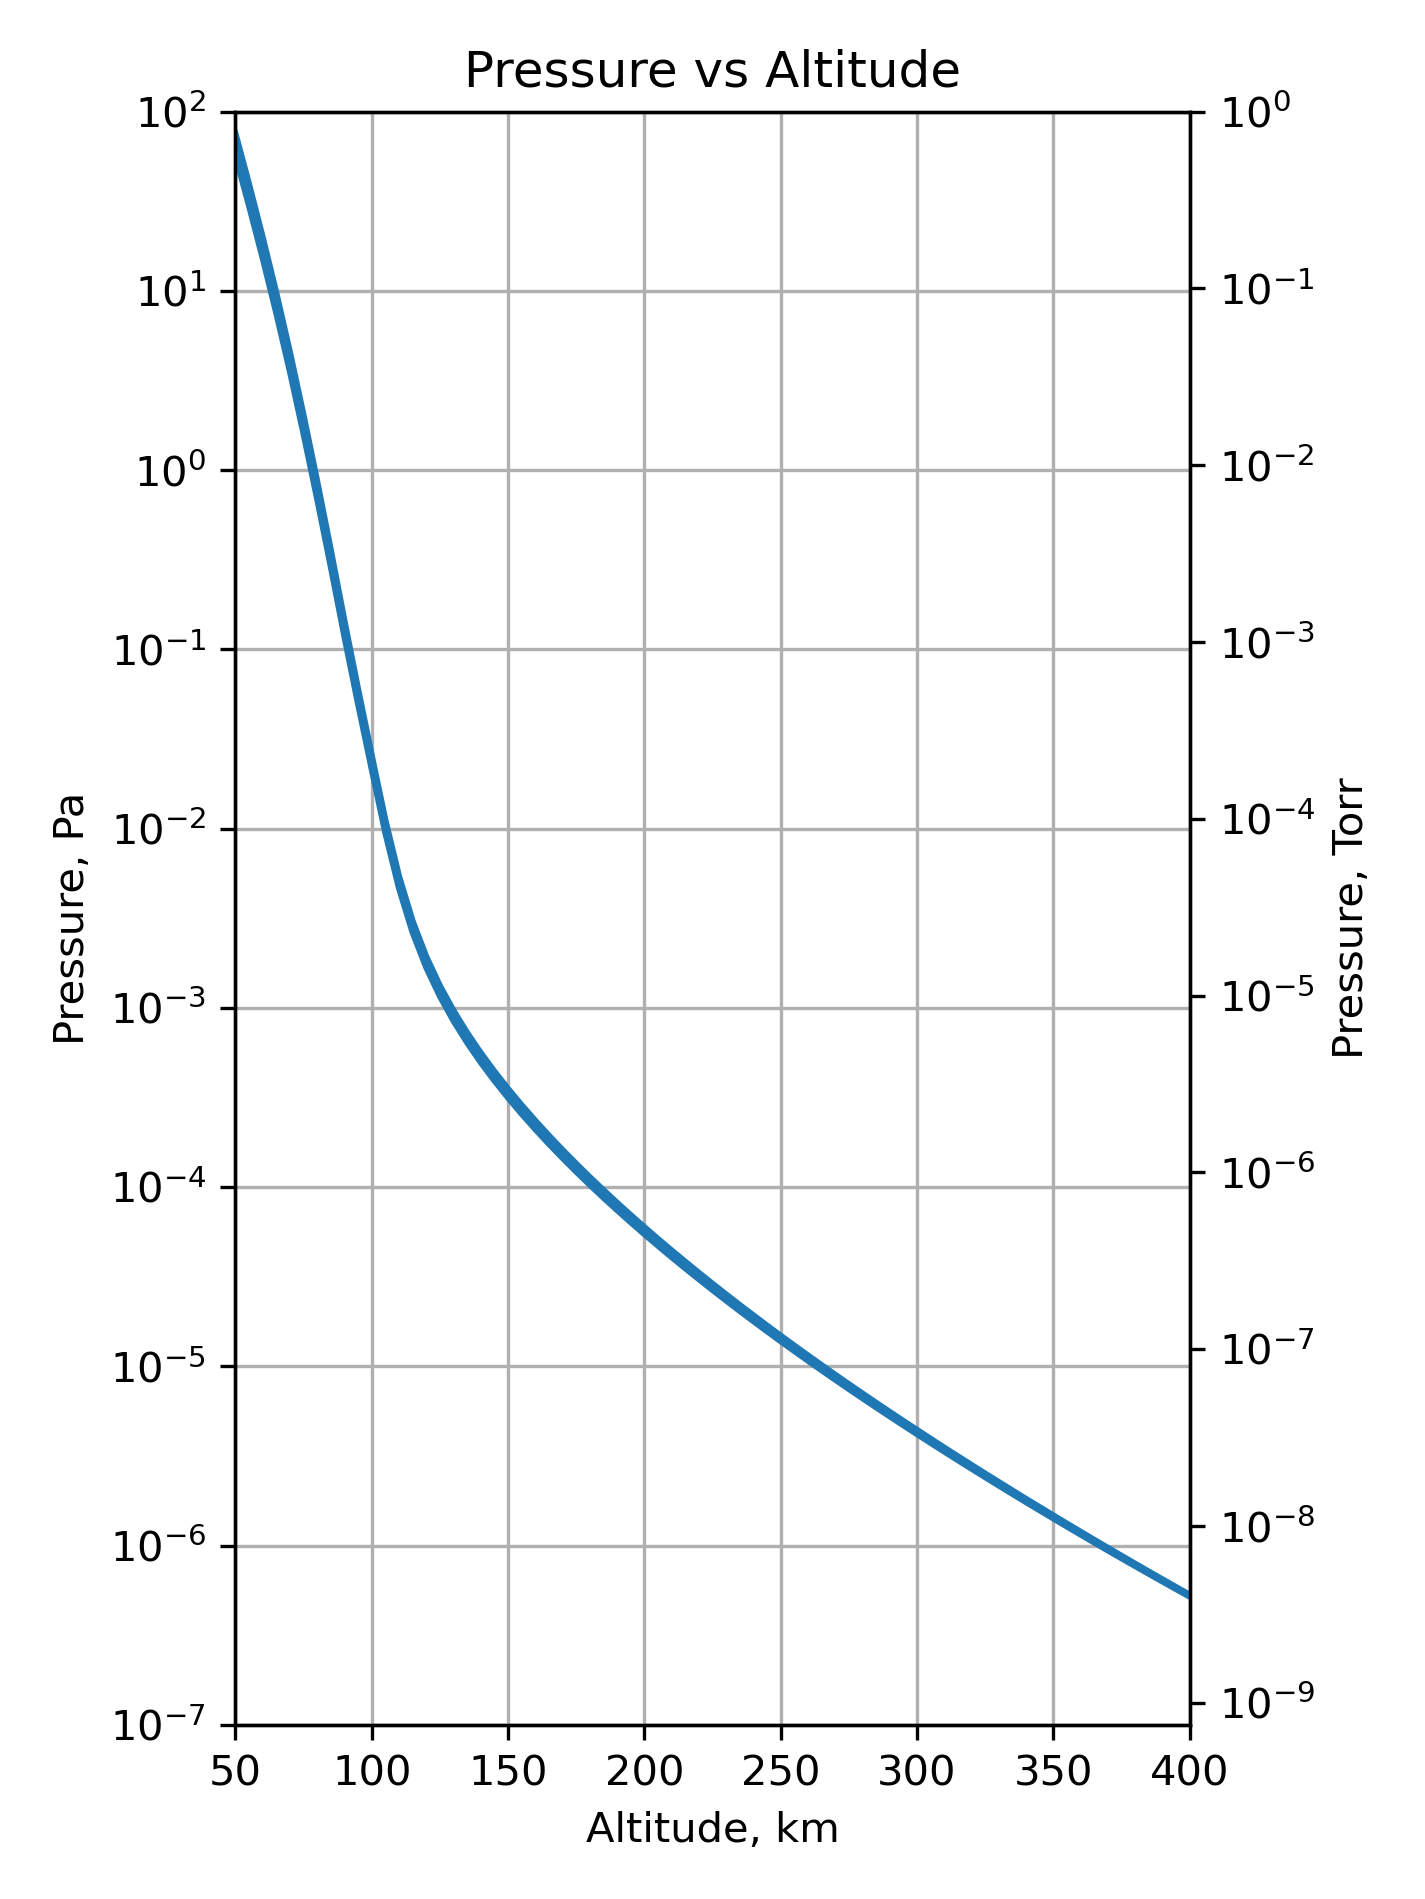
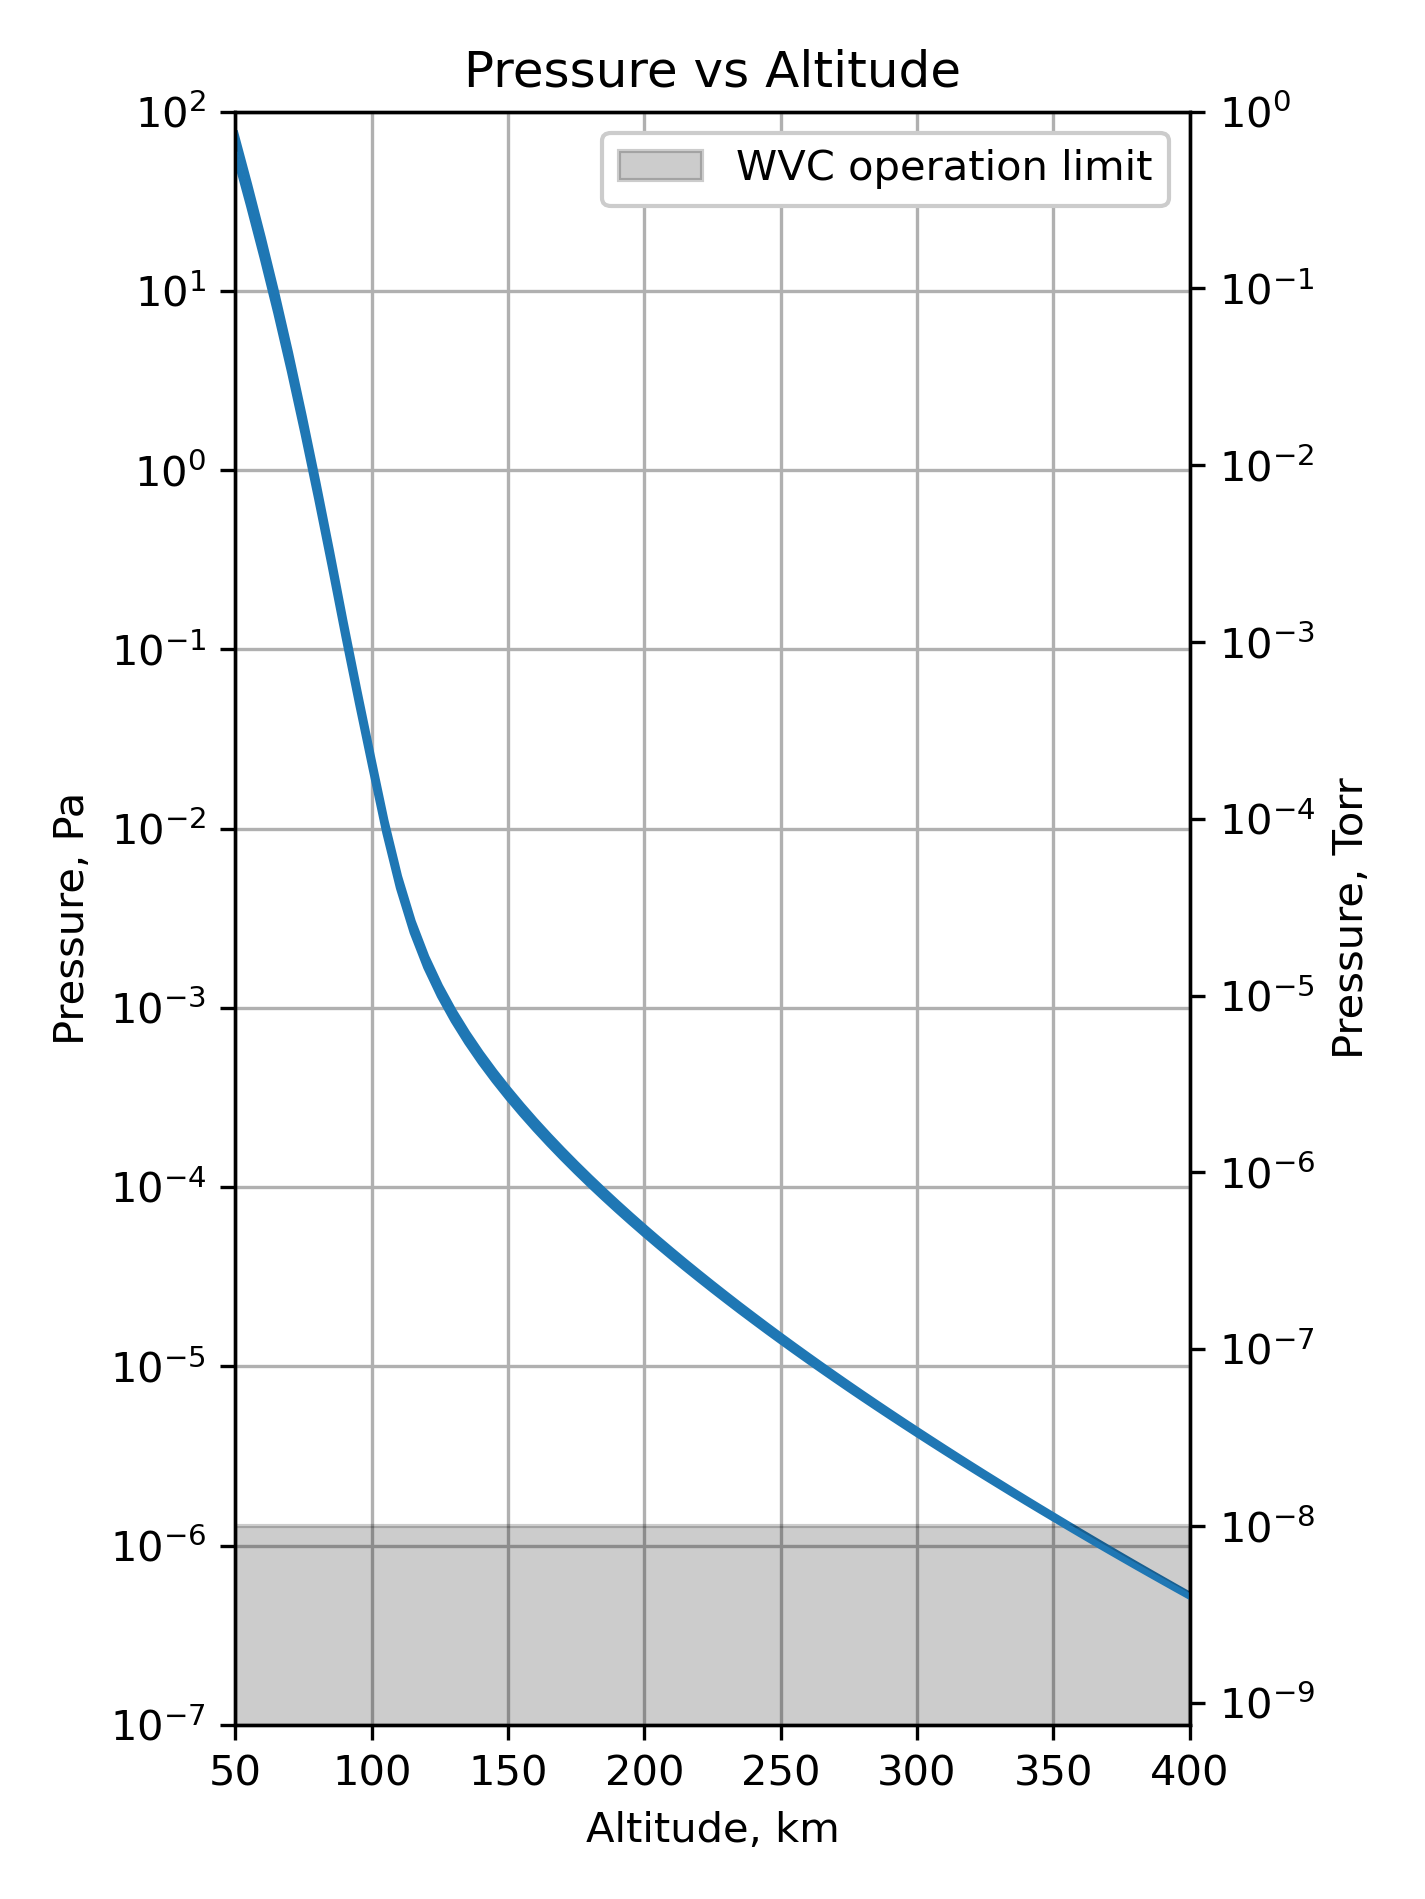
Update

Changed region(s): [[0.1544, 0.7767, 0.8337, 0.9321], [0.4323, 0.0621, 0.8337, 0.1243]]

diff --git a/Atmospheric_parameters_calculation.py b/Atmospheric_parameters_calculation.py
@@ -83,6 +83,7 @@ ax.semilogy(H,n_O,'--',label='O')
 ax.semilogy(H,n_Ar,'--',label='Ar')
 ax.semilogy(H,n_He,'--',label='He')
 ax.semilogy(H,n_H,'--',label='H')
+ax.axhspan(1e14,1e15,color='k',alpha=0.2,label='WVC operation limit')
 ax.set_xlim(50,400)
 ax.set_xlabel('Altitude, km')
 ax.set_ylim(1e14,1e23)
@@ -104,13 +105,28 @@ ax.set_yticks(np.logspace(-7,2,10))
 ax.set_ylabel('Pressure, Pa')
 ax2 = ax.twinx()
 ax2.semilogy(H,P*760/101325)
+ax2.axhspan(1e-10,1e-8,color='k',alpha=0.2,label='WVC operation limit')
 ax2.set_ylim(1e-7*760/101325,1e2*760/101325)
 ax2.set_yticks(np.logspace(-9,0,10))
 ax2.set_ylabel('Pressure, Torr')
 ax.grid()
 ax.set_title('Pressure vs Altitude')
+ax2.legend(framealpha=1.0)
 fig.tight_layout()
 fig.savefig('Pressure vs Altitude',dpi=300)
+plt.show()
+
+fig, ax = plt.subplots(figsize=figure_size)
+ax.plot(H,T)
+ax.set_xlim(50,400)
+ax.set_xlabel('Altitude, km')
+ax.set_ylim(150,850)
+ax.set_yticks(np.linspace(150,850,15))
+ax.set_ylabel('Temperature, K')
+ax.grid()
+ax.set_title('Temperature vs Altitude')
+fig.tight_layout()
+fig.savefig('Temperature vs Altitude',dpi=300)
 plt.show()
 #%%
 h = 105 # km
